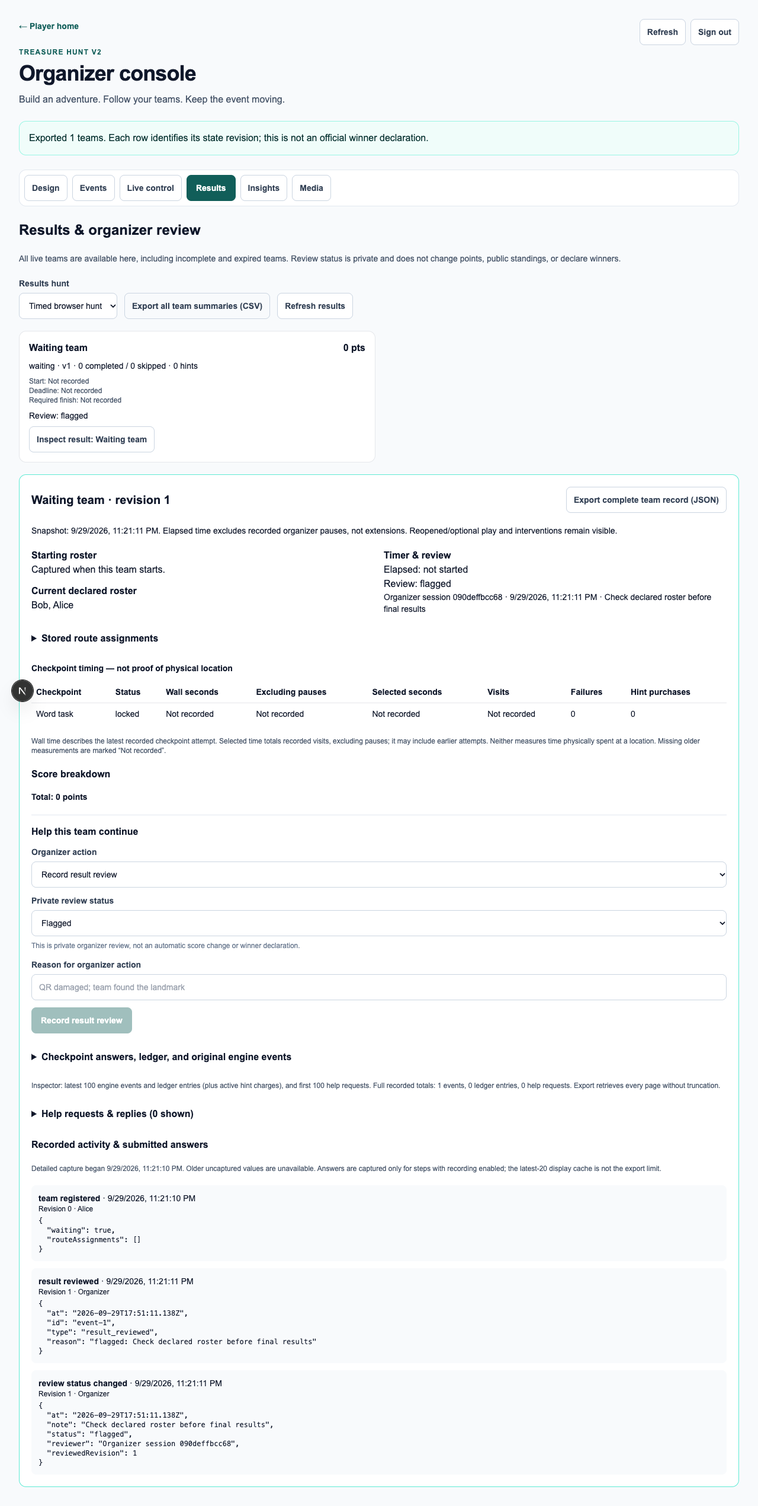
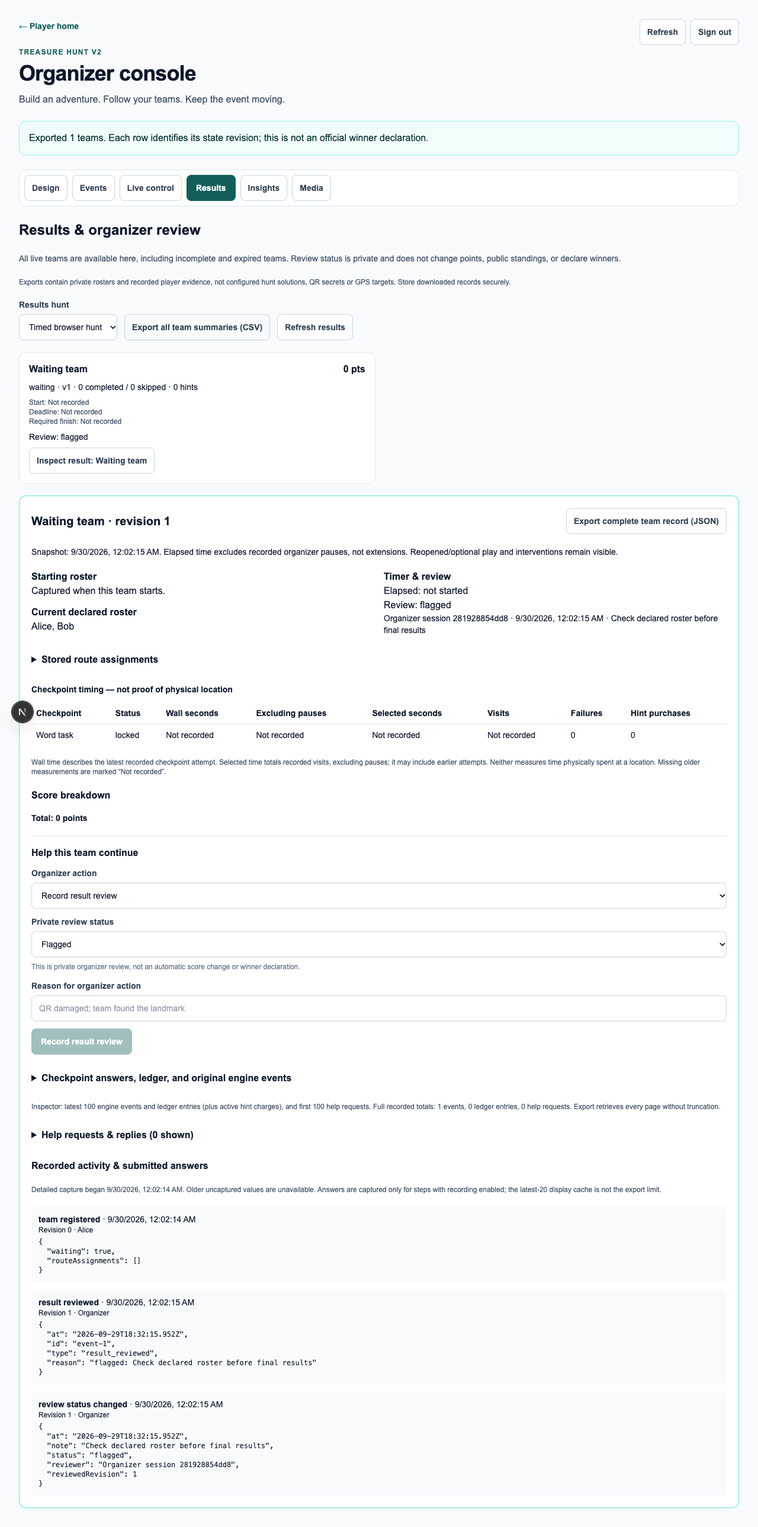
fix: redact organizer results and exclude preview records

diff --git a/components/v2/builder/organizer/TeamOperations.tsx b/components/v2/builder/organizer/TeamOperations.tsx
@@ -92,7 +92,14 @@ function TeamRouteAndSolutions({ team, definition }: { team: OrganizerTeam; defi
   </details>;
 }
 
-export function TeamControls({ team, pending, run, refresh, notify }: Omit<OperationProps, 'dashboard'> & { team: OrganizerTeam }) {
+type ControlTeam = Pick<OrganizerTeam, 'id' | 'name' | 'ledger'> & {
+  view: Pick<OrganizerTeam['view'], 'revision' | 'status' | 'timer' | 'members' | 'checkpoints'> & {
+    checkpoint: { id: string } | null;
+    node: Pick<NonNullable<OrganizerTeam['view']['node']>, 'id' | 'type' | 'fallback'> | null;
+    hints: { id: string; title: string }[];
+  };
+};
+export function TeamControls({ team, pending, run, refresh, notify }: Omit<OperationProps, 'dashboard'> & { team: ControlTeam }) {
   const [type, setType] = useState<OrganizerControl['type']>('approve_action');
   const [reason, setReason] = useState('');
   const [targetCheckpoint, setTargetCheckpoint] = useState(team.view.checkpoint?.id || team.view.checkpoints?.[0]?.id || '');
@@ -194,7 +201,7 @@ export default function TeamOperations(props: OperationProps) {
   useEffect(() => {
     let current = true;
     for (const team of dashboard.teams) if (details[team.id] && details[team.id].view.revision !== team.view.revision) {
-      void adminRequest<{ team: OrganizerTeam }>(`/api/v2/admin/results?teamId=${team.id}`).then(result => { if (current) setDetails(previous => ({ ...previous, [team.id]: result.team })); }).catch(() => { /* Keep the inspected snapshot; revision checks protect controls. */ });
+      void adminRequest<{ team: OrganizerTeam }>(`/api/v2/admin/team-inspector?teamId=${team.id}`).then(result => { if (current) setDetails(previous => ({ ...previous, [team.id]: result.team })); }).catch(() => { /* Keep the inspected snapshot; revision checks protect controls. */ });
     }
     return () => { current = false; };
     // Re-fetch only inspected teams when a dashboard refresh reports a change.
@@ -221,7 +228,7 @@ export default function TeamOperations(props: OperationProps) {
       <details className="mt-4 rounded-lg border border-slate-200 p-3"><summary className="cursor-pointer py-2 text-sm font-semibold">Checkpoint progression</summary><ol className="mt-3 space-y-3 text-sm">{team.view.checkpoints?.map(checkpoint => { const progress = team.checkpoints[checkpoint.id]; const nodes = Object.values(progress?.nodes || {}); const attempts = nodes.reduce((sum, node) => sum + node.attempts, 0); return <li key={checkpoint.id}><div className="flex justify-between gap-3"><span>{checkpoint.title}{!checkpoint.required ? ' (optional)' : ''}</span><span className="capitalize text-slate-600">{checkpoint.status}</span></div>{nodes.length > 0 && <p className="mt-1 text-xs text-slate-500">{nodes.filter(node => node.status === 'completed' || node.status === 'skipped').length} steps passed · {attempts} verification attempts</p>}</li>; })}</ol></details>
       {team.detailed !== false && <TeamRouteAndSolutions team={team} definition={team.definition} />}
       {dashboard.photos.filter(photo => photo.team_id === team.id).map(photo => <div key={photo.id} className="mt-4 rounded-lg border border-amber-200 bg-amber-50 p-3"><p className="mb-3 font-semibold">Photo awaiting review</p><img src={`/api/v2/media/${photo.id}`} alt={`Checkpoint photograph submitted by ${team.name}`} className="max-h-80 w-full rounded-lg object-contain" /><a className="mt-2 inline-flex min-h-11 items-center text-sm font-semibold text-teal-800 underline" href={`/api/v2/media/${photo.id}`} target="_blank" rel="noreferrer">Open full image</a>{photo.referenceImages?.length > 0 && <div className="mt-3 space-y-3 border-t border-amber-200 pt-3"><p className="text-sm font-semibold">Expected landmark references</p><p className="text-xs text-slate-600">Compare with the references from this team’s hunt version.</p><div className="grid gap-3 sm:grid-cols-2">{photo.referenceImages.map((url, index) => <a key={`${url}:${index}`} href={url} target="_blank" rel="noreferrer" className="rounded-lg border border-amber-200 bg-white p-2"><img src={url} alt={`Expected landmark reference ${index + 1} for ${team.name}`} className="max-h-56 w-full object-contain" /><span className="mt-2 block text-xs font-semibold text-teal-800 underline">Open reference {index + 1}</span></a>)}</div></div>}<p className="mt-3 text-xs text-slate-600">Use Approve current step or Ask for another photo below.</p></div>)}
-      {team.detailed === false ? <button className={`${buttonClass} mt-4`} disabled={Boolean(pending)} onClick={() => void run(`inspect:${team.id}`, async () => { const result = await adminRequest<{ team: OrganizerTeam }>(`/api/v2/admin/results?teamId=${team.id}`); setDetails(previous => ({ ...previous, [team.id]: result.team })); })}>Inspect team & controls</button> : <><TeamControls key={`${team.id}:${team.view.checkpoint?.id}:${team.view.node?.id}`} team={team} pending={pending} run={run} refresh={refresh} notify={notify} /><History team={team} /></>}
+      {team.detailed === false ? <button className={`${buttonClass} mt-4`} disabled={Boolean(pending)} onClick={() => void run(`inspect:${team.id}`, async () => { const result = await adminRequest<{ team: OrganizerTeam }>(`/api/v2/admin/team-inspector?teamId=${team.id}`); setDetails(previous => ({ ...previous, [team.id]: result.team })); })}>Inspect team, controls & private solutions</button> : <><TeamControls key={`${team.id}:${team.view.checkpoint?.id}:${team.view.node?.id}`} team={team} pending={pending} run={run} refresh={refresh} notify={notify} /><History team={team} /></>}
     </article>)}</div>
     {teams.length === 0 && <p className="rounded-xl border border-dashed border-slate-300 p-6 text-slate-500">No teams match this filter.</p>}
   </section>;

diff --git a/tests/integration/timed-teams.test.ts b/tests/integration/timed-teams.test.ts
@@ -10,12 +10,13 @@ import { NextRequest } from 'next/server';
 import { getPool } from '../../lib/server/db';
 import { deleteDraft, publishDraft, publishHunt, saveDraft, setHuntStatus } from '../../lib/server/hunts';
 import { applyTeamCommand, getTeamRecord, joinTeam, organizerSnapshot, teamView } from '../../lib/server/store';
-import { listResults, resultActivity, resultBatch, resultHistory, resultManifest, teamResult } from '../../lib/server/results';
+import { inspectTeam, listResults, resultActivity, resultBatch, resultHistory, resultManifest, teamResult } from '../../lib/server/results';
 import { startPreview } from '../../lib/server/operations';
 import { authenticate, digest, HttpError, TEAM_COOKIE } from '../../lib/server/security';
 import { cleanupMedia, readMedia, uploadPhoto, validatePhotoTask } from '../../lib/server/media';
 import { EngineError, type HuntDefinition } from '../../lib/engine/types';
 import { jsonBody } from '../../lib/server/http';
+import { newHuntSettings } from '../../lib/engine/authoring';
 
 const enabled = !!process.env.DATABASE_URL, ids: string[] = [];
 let directory: string;
@@ -50,7 +51,7 @@ after(async () => {
 });
 
 test('PostgreSQL: atomic starts, roster races, session revocation and immutable starting roster', { skip: !enabled }, async () => {
-  const h = definition(); await publishHunt(h); const team = await join(h.id, ['Alice']); const id = team.view.teamId;
+  const h = definition(newHuntSettings); await publishHunt(h); const team = await join(h.id, ['Alice']); const id = team.view.teamId;
   assert.equal(team.view.status, 'waiting'); assert.equal(JSON.stringify(team.view).includes('Private first task'), false);
   await assert.rejects(start(id), fails('invalid_roster'));
   await assert.rejects(command(id, { type: 'update_roster', expectedRevision: 0, names: ['Alice', 'Ａlice'] }));
@@ -176,6 +177,39 @@ test('PostgreSQL: previews stay isolated and forced assignment maps are never li
   const second = await startPreview({ huntId: h.id, routeChoices: { 'one:router': 0 } });
   assert.notEqual(preview.view.teamId, second.view.teamId); assert.deepEqual((await getTeamRecord(preview.view.teamId)).state.routeAssignments, before);
   assert.deepEqual((await listResults(h.id)).teams, []);
+  const missing = (e: unknown) => e instanceof HttpError && e.status === 404;
+  for (const id of [preview.view.teamId, second.view.teamId]) {
+    await assert.rejects(teamResult(id), missing);
+    await assert.rejects(resultActivity(id, 0), missing);
+    for (const section of ['events', 'ledger', 'help'] as const) await assert.rejects(resultHistory(id, section, 0, 0, 0, new Date().toISOString()), missing);
+    assert.equal((await inspectTeam(id)).team.isPreview, true);
+  }
+});
+
+test('PostgreSQL: Results allowlists configuration while retaining recorded player answers', { skip: !enabled }, async () => {
+  const h = definition({ map: 'all' });
+  h.dudQrs = [{ token: 'private-decoy-token', message: 'Try again' }];
+  const cp = h.checkpoints[0]; cp.hints = [];
+  cp.location = { latitude: 18.1234567, longitude: 72.7654321, radiusMeters: 30 };
+  cp.flow = { startNodeId: 'words', nodes: [
+    { id: 'words', type: 'puzzle', prompt: 'Find the word', puzzle: { type: 'word_search', grid: [['C', 'A', 'T'], ['X', 'Y', 'Z'], ['D', 'O', 'G']], words: ['CAT'] }, next: 'answer' },
+    { id: 'answer', type: 'verify_answer', prompt: 'Answer', answers: ['private-answer-secret'], recordAnswerAttempts: true, next: 'qr' },
+    { id: 'qr', type: 'verify_qr', prompt: 'Scan', token: 'private-qr-token', backupCode: 'PRIVATEBACKUP', next: 'code' },
+    { id: 'code', type: 'verify_code', prompt: 'Code', code: 'PRIVATECODE', next: 'gps' },
+    { id: 'gps', type: 'verify_gps', prompt: 'Location', ...cp.location, maxAccuracyMeters: 50, next: 'done' },
+    { id: 'done', type: 'complete' },
+  ] };
+  await publishHunt(h); const team = await join(h.id), id = team.view.teamId; await start(id);
+  await command(id, { type: 'submit_puzzle', checkpointId: 'one', nodeId: 'words', expectedRevision: 0, value: { path: [0, 1, 2].map(column => ({ row: 0, column })) } });
+  await command(id, { type: 'verify', checkpointId: 'one', nodeId: 'answer', value: 'recorded-player-guess' });
+  const report = await teamResult(id), serialized = JSON.stringify(report);
+  assert.deepEqual(report.team.definition, { id: h.id, title: h.title, checkpoints: [{ id: cp.id, title: cp.title, basePoints: cp.basePoints, required: true }] });
+  for (const secret of ['private-answer-secret', 'private-qr-token', 'PRIVATEBACKUP', 'PRIVATECODE', 'private-decoy-token', '18.1234567', '72.7654321']) assert.equal(serialized.includes(secret), false, secret);
+  assert.ok(serialized.includes('recorded-player-guess'));
+  assert.equal(report.team.checkpoints.one.nodes.words.puzzleDiscoveries?.[0].itemId, 'CAT');
+  assert.deepEqual(report.team.checkpoints, (await getTeamRecord(id)).state.checkpoints);
+  assert.ok(JSON.stringify(await resultActivity(id, report.summary.revision)).includes('recorded-player-guess'));
+  assert.deepEqual((await inspectTeam(id)).team.definition, h);
 });
 
 test('PostgreSQL: paged legacy history exports retain an exact prefix during later corrections', { skip: !enabled }, async () => {

diff --git a/lib/server/results.ts b/lib/server/results.ts
@@ -65,7 +65,7 @@ export function checkpointTimings(state: GameState, now: string) {
     purchases: state.events.filter(event => event.checkpointId === id && event.type === 'hint_used').length }));
 }
 
-export async function teamResult(teamId: string) {
+async function loadTeamReport(teamId: string, allowPreview = false) {
   return transaction(async client => {
   const identity = (await client.query('select hunt_id from hunt_v2.teams where id=$1', [teamId])).rows[0];
   if (!identity) throw new HttpError(404, 'Team not found.');
@@ -73,7 +73,7 @@ export async function teamResult(teamId: string) {
   // hunt -> team order as accepted commands. New help requests also lock the team.
   await client.query('select id from hunt_v2.hunts where id=$1 for share', [identity.hunt_id]);
   const team = (await client.query(`${teamQuery} where t.id=$1 for share of t`, [teamId])).rows[0] as TeamRecord | undefined;
-  if (!team) throw new HttpError(404, 'Team not found.');
+  if (!team || (team.is_preview && !allowPreview)) throw new HttpError(404, 'Team not found.');
   const now = new Date((await client.query('select clock_timestamp() as at')).rows[0].at).toISOString();
   const members = (await client.query('select id,name,joined_at from hunt_v2.members where team_id=$1 order by joined_at,id', [teamId])).rows;
   const helpCount = (await client.query('select count(*)::int as count from hunt_v2.help_requests where team_id=$1', [teamId])).rows[0].count as number;
@@ -93,11 +93,32 @@ export async function teamResult(teamId: string) {
   });
 }
 
+/** Operational solutions inspection is explicit and separate from Results/export.
+ * The inspector supports preview recovery, but no Results path may opt into it. */
+export async function inspectTeam(teamId: string) {
+  return { team: (await loadTeamReport(teamId, true)).team };
+}
+
+/** Allowlist configuration metadata, including the nested view: don't export
+ * private definitions or incidentally include configured maps/hint content. */
+export async function teamResult(teamId: string) {
+  const report = await loadTeamReport(teamId), { definition, view } = report.team;
+  return { ...report, team: { ...report.team,
+    definition: { id: definition.id, title: definition.title, checkpoints: definition.checkpoints.map(cp => ({ id: cp.id, title: cp.title, basePoints: cp.basePoints, required: cp.required !== false })) },
+    view: { hunt: { id: definition.id, title: definition.title }, teamId: view.teamId, revision: view.revision, status: view.status, score: view.score,
+      serverNow: view.serverNow, playability: view.playability, timer: view.timer, progress: view.progress, members: view.members,
+      checkpoint: view.checkpoint, node: view.node ? { id: view.node.id, type: view.node.type, ...(view.node.fallback ? { fallback: view.node.fallback } : {}) } : null,
+      checkpoints: view.checkpoints?.map(cp => ({ id: cp.id, title: cp.title, status: cp.status, required: cp.required })),
+      hints: view.hints.map(hint => ({ id: hint.id, title: hint.title })),
+    },
+  } };
+}
+
 /** Engine events and ledger are append-only. Ordinal cutoffs preserve the inspected
  * revision across concurrent corrections; help replies are labelled as read-time data. */
 export async function resultHistory(teamId: string, section: 'events' | 'ledger' | 'help', throughRevision: number, count: number, offset: number, asOf: string) {
   if (![throughRevision, count, offset].every(Number.isSafeInteger) || throughRevision < 0 || count < 0 || offset < 0 || offset > count || !Number.isFinite(Date.parse(asOf))) throw new HttpError(400, 'Invalid history cursor.');
-  const team = (await getPool().query("select (state->>'revision')::int as revision from hunt_v2.teams where id=$1", [teamId])).rows[0];
+  const team = (await getPool().query("select (state->>'revision')::int as revision from hunt_v2.teams where id=$1 and not is_preview", [teamId])).rows[0];
   if (!team) throw new HttpError(404, 'Team not found.');
   if (team.revision < throughRevision) throw new HttpError(409, 'The team no longer matches this export. Reload the result.');
   const size = Math.min(100, count - offset);
@@ -110,6 +131,7 @@ export async function resultHistory(teamId: string, section: 'events' | 'ledger'
 
 export async function resultActivity(teamId: string, throughRevision: number, afterRevision = -1, afterOrdinal = -1) {
   if (![throughRevision, afterRevision, afterOrdinal].every(Number.isSafeInteger) || throughRevision < 0 || afterRevision < -1 || afterOrdinal < -1) throw new HttpError(400, 'Invalid activity cursor.');
+  if (!(await getPool().query('select 1 from hunt_v2.teams where id=$1 and not is_preview', [teamId])).rowCount) throw new HttpError(404, 'Team not found.');
   const { rows } = await getPool().query(`select revision,ordinal,at,actor,type,details from hunt_v2.team_activity where team_id=$1 and revision<=$2 and (revision,ordinal)>($3,$4) order by revision,ordinal limit 101`, [teamId, throughRevision, afterRevision, afterOrdinal]);
   const entries = rows.slice(0, 100), last = entries.at(-1);
   return { throughRevision, entries, next: rows.length > 100 ? { revision: last.revision, ordinal: last.ordinal } : null };

diff --git a/tests/e2e/timed-teams.spec.ts b/tests/e2e/timed-teams.spec.ts
@@ -16,6 +16,18 @@ const definition = (): HuntDefinition => {
 test.beforeEach(async ({ request }) => { expect((await post(request, '/api/v2/admin/session', { password: 'browser-test-password-only' })).ok()).toBeTruthy(); });
 test.afterAll(async () => { const pool = new Pool({ connectionString: process.env.DATABASE_URL }); try { await pool.query('delete from hunt_v2.hunts where id=any($1::text[])', [ids]); await pool.query('delete from hunt_v2.drafts where id=any($1::text[])', [ids]); } finally { await pool.end(); } });
 
+test('preview detail and every history endpoint are excluded from Results', async ({ request }) => {
+  const h = definition(); expect((await post(request, '/api/v2/admin/hunts', { definition: h })).ok()).toBeTruthy();
+  const response = await post(request, '/api/v2/admin/preview', { huntId: h.id }); expect(response.ok(), await response.text()).toBeTruthy();
+  const preview = await response.json(), id = preview.view.teamId;
+  for (const section of ['', 'activity', 'events', 'ledger', 'help']) {
+    const params = new URLSearchParams({ teamId: id, throughRevision: '0', count: '0', offset: '0', asOf: new Date().toISOString() });
+    if (section) params.set('section', section);
+    expect((await request.get(`/api/v2/admin/results?${params}`)).status()).toBe(404);
+  }
+  expect((await request.get(`/api/v2/admin/team-inspector?teamId=${id}`)).status()).toBe(200);
+});
+
 test('timed roster, late teammate, pause, sticky word hints, expiry and organizer reopen', async ({ page, browser, request }, info) => {
   test.setTimeout(90000);
   const h = definition(), teamName = `Timed-${randomUUID().slice(0, 8)}`;
@@ -47,6 +59,7 @@ test('timed roster, late teammate, pause, sticky word hints, expiry and organize
     const unauthorized = await post(device.request, '/api/v2/session', { huntId: h.id, teamName, playerName: 'Eve', pin: '123456', mode: 'join' }); expect(unauthorized.status()).toBe(409);
     expect((await post(device.request, '/api/v2/session', { huntId: h.id, teamName, playerName: 'Bob', pin: '123456', mode: 'join', routeChoices: {} })).status()).toBe(400);
     expect((await device.request.get(`/api/v2/admin/results?teamId=${initial.teamId}`)).status()).toBe(401);
+    expect((await device.request.get(`/api/v2/admin/team-inspector?teamId=${initial.teamId}`)).status()).toBe(401);
     const status = async (value: string) => {
       const dashboard = await (await request.get('/api/v2/admin')).json();
       const response = await request.patch('/api/v2/admin/hunts', { headers: { Origin: origin }, data: { huntId: h.id, status: value, expectedRevision: dashboard.hunts.find((item: { id: string }) => item.id === h.id).lifecycleRevision } }); expect(response.ok(), await response.text()).toBeTruthy();
@@ -89,7 +102,11 @@ test('draft deletion keeps unsaved device work; results review and exports stay 
   await page.getByLabel('Organizer action', { exact: true }).selectOption('review_result'); await page.getByLabel('Private review status', { exact: true }).selectOption('flagged');
   await page.getByLabel('Reason for organizer action', { exact: true }).fill('Check declared roster before final results'); await page.getByRole('button', { name: 'Record result review', exact: true }).click();
   await expect(page.getByText(/Review: flagged/).first()).toBeVisible();
-  const download = page.waitForEvent('download'); await page.getByRole('button', { name: 'Export complete team record (JSON)', exact: true }).click(); expect((await download).suggestedFilename()).toContain(team.view.teamId);
+  const download = page.waitForEvent('download'); await page.getByRole('button', { name: 'Export complete team record (JSON)', exact: true }).click();
+  const json = await download; expect(json.suggestedFilename()).toContain(team.view.teamId);
+  const exported = JSON.parse(await readFile((await json.path())!, 'utf8'));
+  expect(exported.team.definition).toEqual({ id: h.id, title: h.title, checkpoints: [{ id: 'one', title: 'Word task', basePoints: 10, required: true }] });
+  expect(JSON.stringify(exported)).not.toContain('"answers"');
   const csvDownload = page.waitForEvent('download'); await page.getByRole('button', { name: 'Export all team summaries (CSV)', exact: true }).click();
   const csv = await csvDownload; expect(csv.suggestedFilename()).toBe(`${h.id}-results.csv`);
   const contents = await readFile((await csv.path())!, 'utf8'); expect(contents).toContain(team.view.teamId); expect(contents).toContain('registrationCutoff'); expect(contents).toContain('"flagged"');

diff --git a/tests/e2e/organizer.spec.ts b/tests/e2e/organizer.spec.ts
@@ -249,7 +249,7 @@ test('organizer can inspect opted-in answer submissions without exposing them to
   await page.goto('/v2/admin');
   await page.getByRole('button', { name: /^Live control/ }).click();
   const team = page.locator('article').filter({ has: page.getByRole('heading', { name: teamName, exact: true }) });
-  await team.getByRole('button', { name: 'Inspect team & controls', exact: true }).click();
+  await team.getByRole('button', { name: 'Inspect team, controls & private solutions', exact: true }).click();
   await team.getByText('Route & private solutions', { exact: true }).click();
   await expect(team.getByText('Submitted answers (latest 2)', { exact: true })).toBeVisible();
   await expect(team.getByText(/rejected · “needle”/)).toBeVisible();
@@ -322,7 +322,7 @@ test('organizer resolves help, enables recovery, and retries a score correction 
   await page.goto('/v2/admin');
   await page.getByRole('button', { name: /^Live control/ }).click();
   const team = page.locator('article').filter({ has: page.getByRole('heading', { name: teamName, exact: true }) });
-  await team.getByRole('button', { name: 'Inspect team & controls', exact: true }).click();
+  await team.getByRole('button', { name: 'Inspect team, controls & private solutions', exact: true }).click();
   await team.getByText('Route & private solutions', { exact: true }).click();
   await expect(team.getByText('TEAM IS HERE', { exact: true })).toBeVisible();
   await expect(team.getByText('Correct code: BRIDGE', { exact: true })).toBeVisible();
@@ -346,7 +346,7 @@ test('organizer resolves help, enables recovery, and retries a score correction 
   await page.reload();
   await page.unroute('**/api/v2/admin/control');
   await page.getByRole('button', { name: /^Live control/ }).click();
-  await team.getByRole('button', { name: 'Inspect team & controls', exact: true }).click();
+  await team.getByRole('button', { name: 'Inspect team, controls & private solutions', exact: true }).click();
   await expect(team.getByRole('button', { name: 'Retry pending organizer action', exact: true })).toBeEnabled();
   await expect(team.getByRole('button', { name: 'Discard pending action', exact: true })).toBeDisabled();
   const retryRequest = page.waitForRequest(request => request.url().endsWith('/api/v2/admin/control') && request.method() === 'POST');

diff --git a/components/v2/builder/organizer/ResultsPanel.tsx b/components/v2/builder/organizer/ResultsPanel.tsx
@@ -58,6 +58,7 @@ export default function ResultsPanel({ dashboard, pending, run, refresh, notify 
   return <section className="space-y-5">
     <h2 className="text-2xl font-bold">Results & organizer review</h2>
     <p className="text-sm leading-6 text-slate-600">All live teams are available here, including incomplete and expired teams. Review status is private and does not change points, public standings, or declare winners.</p>
+    <p className="text-xs text-slate-600">Exports contain private rosters and recorded player evidence, not configured hunt solutions, QR secrets or GPS targets. Store downloaded records securely.</p>
     <div className="flex flex-wrap items-end gap-3"><Field label="Results hunt"><select className={inputClass} value={huntId} disabled={Boolean(pending)} onChange={event => setHuntId(event.target.value)}>{dashboard.hunts.map(hunt => <option key={hunt.id} value={hunt.id}>{hunt.title}</option>)}</select></Field><button className={buttonClass} disabled={Boolean(pending) || !huntId} onClick={() => void run('export-results', exportSummaries)}>Export all team summaries (CSV)</button><button className={buttonClass} disabled={Boolean(pending) || !huntId} onClick={() => void run('refresh-results', async () => { setPage(await adminRequest<Page>(`/api/v2/admin/results?huntId=${encodeURIComponent(huntId)}`)); })}>Refresh results</button></div>
     {problem && <p role="alert" className="text-red-800">{problem}</p>}
     <div className="grid gap-3 md:grid-cols-2">{page?.teams.map(team => <article key={team.id} className="space-y-2 rounded-xl border bg-white p-4"><div className="flex justify-between gap-3"><h3 className="font-bold">{team.name}</h3><strong>{team.score} pts</strong></div><p className="text-sm">{team.status} · v{team.version} · {team.completed} completed / {team.skipped} skipped · {team.hints} hints</p><p className="text-xs text-slate-600">Start: {date(team.startedAt)}<br />Deadline: {date(team.deadlineAt)}<br />Required finish: {date(team.completedAt)}</p><p className="text-sm">Review: {team.review?.status ?? 'pending'}{team.reviewOutdated ? ' — outdated; team changed' : ''}</p><button className={buttonClass} disabled={Boolean(pending)} onClick={() => void run('inspect-result', () => inspect(team.id))}>Inspect result: {team.name}</button></article>)}</div>

diff --git a/tests/timed-teams.test.ts b/tests/timed-teams.test.ts
@@ -6,6 +6,13 @@ import { assertStartWindow, elapsedMilliseconds, pauseSession, playability, resu
 import { assignRoutes } from '../lib/server/routes';
 import { validateRosterNames, parseCommand } from '../lib/engine/validation';
 import { resultsCsv } from '../lib/engine/reporting';
+import { newHuntSettings } from '../lib/engine/authoring';
+
+test('new authoring defaults to two members without changing legacy definitions or explicit solo settings', () => {
+  assert.deepEqual(newHuntSettings, { minTeamSize: 2, maxTeamSize: 4, sessionDurationSeconds: 7200, assignmentVersion: 2 });
+  assert.equal(hunt(false).settings?.minTeamSize, undefined);
+  assert.deepEqual(validateHunt(hunt()), [], 'explicit solo configuration remains supported');
+});
 
 const at = (seconds = 0) => new Date(Date.UTC(2026, 0, 1) + seconds * 1000).toISOString();
 const error = (code: string) => (e: unknown) => e instanceof EngineError && e.code === code;

diff --git a/app/api/v2/admin/team-inspector/route.ts b/app/api/v2/admin/team-inspector/route.ts
@@ -1,0 +1,17 @@
+import { NextRequest } from 'next/server';
+import { handle, requireSession } from '@/lib/server/http';
+import { inspectTeam } from '@/lib/server/results';
+import { HttpError } from '@/lib/server/security';
+
+export const runtime = 'nodejs';
+export const dynamic = 'force-dynamic';
+
+/** Explicit private operational inspection, never used by Results/export. */
+export async function GET(request: NextRequest) {
+  return handle(async () => {
+    await requireSession(request, 'admin');
+    const teamId = request.nextUrl.searchParams.get('teamId');
+    if (!teamId || !/^[0-9a-f]{8}(-[0-9a-f]{4}){3}-[0-9a-f]{12}$/i.test(teamId)) throw new HttpError(400, 'Choose a valid team.');
+    return inspectTeam(teamId);
+  });
+}

diff --git a/lib/engine/authoring.ts b/lib/engine/authoring.ts
@@ -1,7 +1,7 @@
 import type { HuntDefinition, HuntSettings } from './types'
 import { nodeTargets } from './validation'
 
-export const newHuntSettings: HuntSettings = { minTeamSize: 1, maxTeamSize: 4, sessionDurationSeconds: 7200, assignmentVersion: 2 }
+export const newHuntSettings: HuntSettings = { minTeamSize: 2, maxTeamSize: 4, sessionDurationSeconds: 7200, assignmentVersion: 2 }
 
 /** Bounded reachability warnings, not an automatic difficulty/balance judgement. */
 export function authoringWarnings(hunt: HuntDefinition): string[] {

diff --git a/docs/v2/timed-teams.md b/docs/v2/timed-teams.md
@@ -4,7 +4,7 @@ This upgrade extends the existing engine and transactional team aggregate. It do
 
 ## Compatibility and authoring
 
-New blank hunts default to a **120-minute personal allowance, one minimum member and four maximum members**. Organizers can change these in Design → Hunt settings. Imported definitions, existing drafts, templates with their own settings, and published versions are not silently rewritten. Absent minimum means one, absent maximum keeps the previous default of 50, and absent duration means no personal deadline. Existing explicitly configured maxima remain unchanged. The supported size bounds remain 1–1,000; minimum cannot exceed maximum.
+New blank hunts default to a **120-minute personal allowance, two minimum members and four maximum members**. Organizers can change these in Design → Hunt settings, including explicitly allowing solo teams. Imported definitions, existing drafts, templates with their own settings, and published versions are not silently rewritten. Absent minimum means one, absent maximum keeps the previous default of 50, and absent duration means no personal deadline. Existing explicitly configured maxima remain unchanged. The supported size bounds remain 1–1,000; minimum cannot exceed maximum.
 
 Existing teams stay pinned to their published version. Enabling a timer, changing team limits or upgrading route distribution affects newly registered teams on a future publication, not teams already playing. Do not publish or deploy during an event. Publication of an existing hunt preserves its lifecycle status; use Events to resume it explicitly.
 
@@ -78,7 +78,9 @@ Dirty device work is retained by default, with an explicit discard choice. **Dis
 
 Results is organizer-only and includes waiting/incomplete/expired teams as well as finishers. List pages contain 50 summaries. The dashboard polls a maximum of 200 recent team summaries, not full puzzle/answer/ledger histories; inspect a team on demand. Results can page through all live teams. Authoring definitions/drafts and pending photo metadata are still part of the organizer dashboard, so response size also depends on the event catalog and outstanding photos.
 
-A team detail includes pinned definition/version, declared and starting rosters, stored routes, playability, start/deadline/finish, pauses/extensions, ledger totals, completed/skipped checkpoints, visit/selection timings, attempts/discoveries, hints, photo audit, help and interventions. Wall checkpoint duration describes the latest recorded attempt. Selected time sums recorded visits and can include earlier attempts; neither proves physical time at a location. Missing historical measurements are labeled, not estimated.
+A team detail includes pinned definition metadata/version, declared and starting rosters, stored routes, playability, start/deadline/finish, pauses/extensions, ledger totals, completed/skipped checkpoints, visit/selection timings, attempts/discoveries, hints, photo audit, help and interventions. Wall checkpoint duration describes the latest recorded attempt. Selected time sums recorded visits and can include earlier attempts; neither proves physical time at a location. Missing historical measurements are labeled, not estimated.
+
+Results and its JSON export allowlist hunt ID/title and checkpoint ID/title/base points/required metadata. They do not include configured answers, QR tokens, backup codes, dud tokens, GPS targets, or full nested player-view content. Actual recorded submissions and discoveries remain available for adjudication; exports still contain private roster/evidence data and should be stored securely. There is no solutions export. Live operations retains a separate **Inspect team, controls & private solutions** action, backed by organizer-only `/api/v2/admin/team-inspector`, for pinned-version recovery (including previews). It is not a Results endpoint. Every Results detail, activity and history endpoint rejects preview teams with 404.
 
 Private review states are `pending`, `approved`, `flagged` and `disqualified`. Each records note, reviewer session, timestamp and reviewed state revision. Later state mutations visibly make the review outdated. These statuses neither alter points/public rankings nor declare winners. Compare interventions and final progress manually before official winner verification.
 

diff --git a/docs/v2/acceptance.md b/docs/v2/acceptance.md
@@ -266,6 +266,16 @@ Initial browser execution found stale assertions for removed roster text/previou
 - Run a representative production-sized HTTP/hosting workload and longer soak if event scale requires it. Local stress has a bounded synthetic catalog and histories; dashboard authoring definitions/pending-photo metadata still contribute to payload size. Browser CSV refuses more than 10,000 teams explicitly; paginated APIs remain available. No latency/SLA or unlimited-scale claim is made.
 - Winner verification, attendance/identity verification, cross-team duplicate-registration controls and route difficulty/scoring balance remain organizer responsibilities. Random routes reduce straightforward answer sharing; they do not prevent screenshots or cooperation.
 
+### PR #11 review follow-up — 2026-09-30
+
+Addressed the review of `adc8dac`: Results detail/JSON now allowlists definition and nested-view metadata, retains recorded answers/discoveries, and excludes configured solutions, QR/backup/dud secrets and GPS targets. The existing private operational inspector is a separate explicitly labelled organizer action, with no solutions download. Newly authored hunts default to two members; existing/explicit solo settings are unchanged. Preview teams return 404 from Results detail, activity and every history section.
+
+- Unit tests: **130/130 PASS**. Typecheck, lint and production build: **PASS**.
+- Disposable PostgreSQL 17: **20/20 PASS**, no skips, including metadata/secret redaction, retained submissions/discoveries, default two-person start enforcement and preview exclusion. A concurrent integration rerun initially deadlocked during schema setup against browser traffic; the final standalone rerun passed. Do not run independently migrating suites against the same database concurrently.
+- Browser suite: **75/75 PASS**, desktop Chrome, Android Chrome emulation and iPhone WebKit emulation. Downloaded JSON metadata is asserted; preview detail/history return 404; team sessions cannot access the private inspector. Existing private-solutions/recovery journeys still pass. Updated Results screenshots were visually inspected; no separate manual-device journey is claimed.
+- Stress rerun: **100 teams / 400 authenticated sessions / 60 rounds / 25,410 operations / zero errors**, 35 seconds; p50 452 ms, p95 571 ms, p99 673 ms; 10 pool connections; maximum synthetic dashboard 447,857 bytes; all 100 teams exported. These are local service/PostgreSQL measurements, not HTTP/production capacity or a long soak.
+- **Approval remains gated on the reviewer's acceptance of the automated evidence and outstanding physical Android/iPhone field checks**, as explicitly requested in this review. Earlier general field-check language does not waive this PR-specific gate. Nothing was merged, migrated in production or deployed by this follow-up. No additional schema/environment changes were introduced; the original PR migration remains required after approval.
+
 ## Remaining acceptance work
 
 1. Initial phone play and own-puzzle authoring are accepted by the user, and the requested feedback improvements are deployed and publicly verified. Specific camera/GPS/compass, denial/landscape/slow-network and older-device scenarios remain useful extended field checks; they are not an absent initial phone test or a new blocking approval request.

diff --git a/docs/v2/architecture.md b/docs/v2/architecture.md
@@ -113,7 +113,7 @@ Relevant screens poll while visible: team state, organizer dashboard, help, lead
 
 The schema separates hunts/versions/drafts, teams/members, sessions, receipts, preview receipts, help/messages, media and organizer audit/activity. Per-team progression, timing, assignments, review metadata, hints, ledger, events and puzzle states form one atomic JSON aggregate. First-solve facts survive ordinary resets; historical timestamps are not fabricated. Opted-in answer steps retain a latest-20/500-character display cache plus durable private activity containing each new full submitted value (maximum 2,048 characters). Existing definitions retain opt-in privacy; new answer-step factories default recording to on with an explicit editor control. QR secrets, backup codes, keystrokes and continuous GPS readings are not recorded by this mechanism. This is not full event sourcing: state is authoritative; ledger/audit explain how it changed.
 
-Dashboard/leaderboard queries select summary fields rather than transferring full team histories. Private Results loads details on demand and paginates audit, event, ledger and help exports with revision/count/read-time metadata. Summary CSV freezes team membership then reads revision-labelled batches; it is not a global point-in-time score snapshot. Formula prefixes in untrusted CSV strings are neutralized. Private review statuses are advisory, become outdated after state changes and do not modify public ranking or winners. Preview teams are excluded from live Results.
+Dashboard/leaderboard queries select summary fields rather than transferring full team histories. Private Results loads details on demand and paginates audit, event, ledger and help exports with revision/count/read-time metadata. Results allowlists definition metadata and its nested view: configured solutions, QR secrets and GPS targets are not exported; recorded player answers/discoveries remain evidence. The existing live private-solutions inspector uses a separate organizer-only endpoint and explicit action, never the Results export. Summary CSV freezes team membership then reads revision-labelled batches; it is not a global point-in-time score snapshot. Formula prefixes in untrusted CSV strings are neutralized. Private review statuses are advisory, become outdated after state changes and do not modify public ranking or winners. Preview teams are excluded from all live Results endpoints, including detail, activity and paginated history.
 
 PINs use salted scrypt; session tokens are random and stored as SHA-256 hashes. Cookies are HttpOnly and SameSite=Lax. The Secure flag follows the request Origin, falling back to `APP_ORIGIN`, so separately configured local HTTP and public HTTPS access can coexist. Organizer credentials are configured server-side, with a 12-hour session; team sessions last seven days. Mutation requests require the configured exact Origin or an explicitly listed `ADDITIONAL_ORIGINS` value; no wildcard origin is accepted. Errors sent to players are mapped to useful messages.
 
